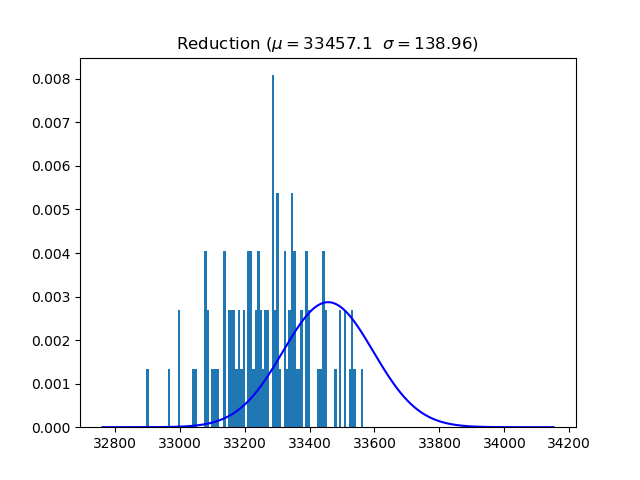
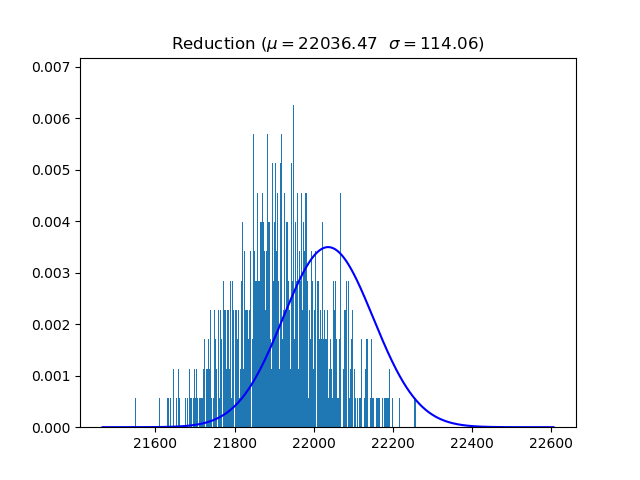
update:

diff --git a/ec_elgamal.py b/ec_elgamal.py
@@ -52,11 +52,14 @@ A = int(config['ec_params']['a'])
 B = int(config['ec_params']['b'])
 BIT = len(bin(MODULO_P)[2:])
 N = 100 # N is used when convert Message to Point, and Point to Message
-P_DOUBLE = 5/6
-P_ADD = 2/3
+P_DOUBLE = 1/2
+P_ADD = 1/2
 LOOP = args.loop
 ALPHA = (12*math.log(2)*math.log(2**BIT))/(math.pi**2) + 1.467
-SIGMA_BASE = config['ec_params']['sigma_base'] # depend on MODULO_P
+C1 = 0.512
+SIGMA_BASE = math.sqrt(C1*math.log(2**BIT))
+print(SIGMA_BASE)
+
 
 # =============================
 # variables for analysis
@@ -124,14 +127,14 @@ def egcd(a: int, b: int):
       q = opr.div(a, b)
       (a, b) = (b, a - opr.multiply(q, b))
       (x, lastx) = (lastx - opr.multiply(q, x), x)
-      (y, lasty) = (lasty - opr.multiply(q, y), y)
+      # (y, lasty) = (lasty - opr.multiply(q, y), y)
     egcd_count_list.append(egcd_count)
   else:
     while b != 0:
       q = opr.div(a, b)
       (a, b) = (b, a - opr.multiply(q, b))
       (x, lastx) = (lastx - opr.multiply(q, x), x)
-      (y, lasty) = (lasty - opr.multiply(q, y), y)
+      # (y, lasty) = (lasty - opr.multiply(q, y), y)
 
   # while b != 0:
   #   q = opr.div(a, b)
@@ -178,7 +181,7 @@ def PointAdd(P: Point, Q: Point):
   elif Q.is_inf():
     return P
   elif P.x == Q.x:
-    if ((P.y + Q.y) == MODULO_P):
+    if ((P.y + Q.y) == 0):
       return Point(INF, INF)
     else:
       tmp1 = opr.multiply(opr.multiply(3, P.x), P.x) + A
@@ -255,12 +258,15 @@ if __name__ == '__main__':
 
   # analysis of distributions
   iteration = (t+w-1)
-  mu_mult = (t-1)*(3*ALPHA+6)+w*(3*ALPHA+3)
-  mu_reduction = ALPHA*(t+w-1)+3*(t-1)*P_DOUBLE+3*w*P_ADD
-  sigma_mult = 3*SIGMA_BASE*math.sqrt(iteration)
-  sigma_reduction = SIGMA_BASE*math.sqrt(iteration)
+  mu_mult = (t-1)*(2*ALPHA+6)+w*(2*ALPHA+3)
+  mu_reduction = ALPHA*iteration+(t-1)*(2+P_DOUBLE)+w*(1+2*P_ADD)
   mu = mu_mult + mu_reduction
-  sigma = sigma_mult + sigma_reduction
+  # sigma_reduction = SIGMA_BASE*math.sqrt(iteration)
+  # sigma_reduction = math.sqrt((SIGMA_BASE**2)*iteration + 3*(t-1)*P_DOUBLE*(1-P_DOUBLE) + 3*w*P_ADD*(1-P_ADD))
+  # sigma = sigma_mult + sigma_reduction
+  sigma_mult = 2*SIGMA_BASE*math.sqrt(iteration)
+  sigma_reduction = math.sqrt((SIGMA_BASE**2)*iteration + (t-1)*P_DOUBLE*(1-P_DOUBLE) + 2*w*P_ADD*(1-P_ADD))
+  sigma = math.sqrt(9*(SIGMA_BASE**2)*(iteration) + (t-1)*P_DOUBLE*(1-P_DOUBLE) + 2*w*P_ADD*(1-P_ADD))
 
   PUBLIC_KEY = Binary(d, GP)
 
@@ -285,6 +291,7 @@ if __name__ == '__main__':
   print("========== Result ==========")
   print("correctness: {0}/{1}".format(correct, LOOP))
   print("=================== global constants ==================")
+  print("config type: {0}".format(args.ecparams))
   print("GP = {0}".format(vars(GP)))
   print("PUBLIC_KEY = {0}".format(vars(PUBLIC_KEY)))
   print('d = {0} ({1}bits)'.format(d, t))
@@ -379,7 +386,7 @@ if __name__ == '__main__':
 
   # egcd_count
   plt.hist(egcd_count_list, bins=len(set(egcd_count_list)), density=True)
-  X = np.arange(60, 200, 0.1)
+  X = np.arange(ALPHA-5*SIGMA_BASE, ALPHA+5*SIGMA_BASE, 1)
   Y = norm.pdf(X, loc=ALPHA, scale=SIGMA_BASE)
   plt.plot(X, Y, 'r-')
   plt.title("Egcd Iteration ($\mu = {0} \ \ \sigma = {1}$)".format(round(ALPHA, 2), round(SIGMA_BASE, 2)))
